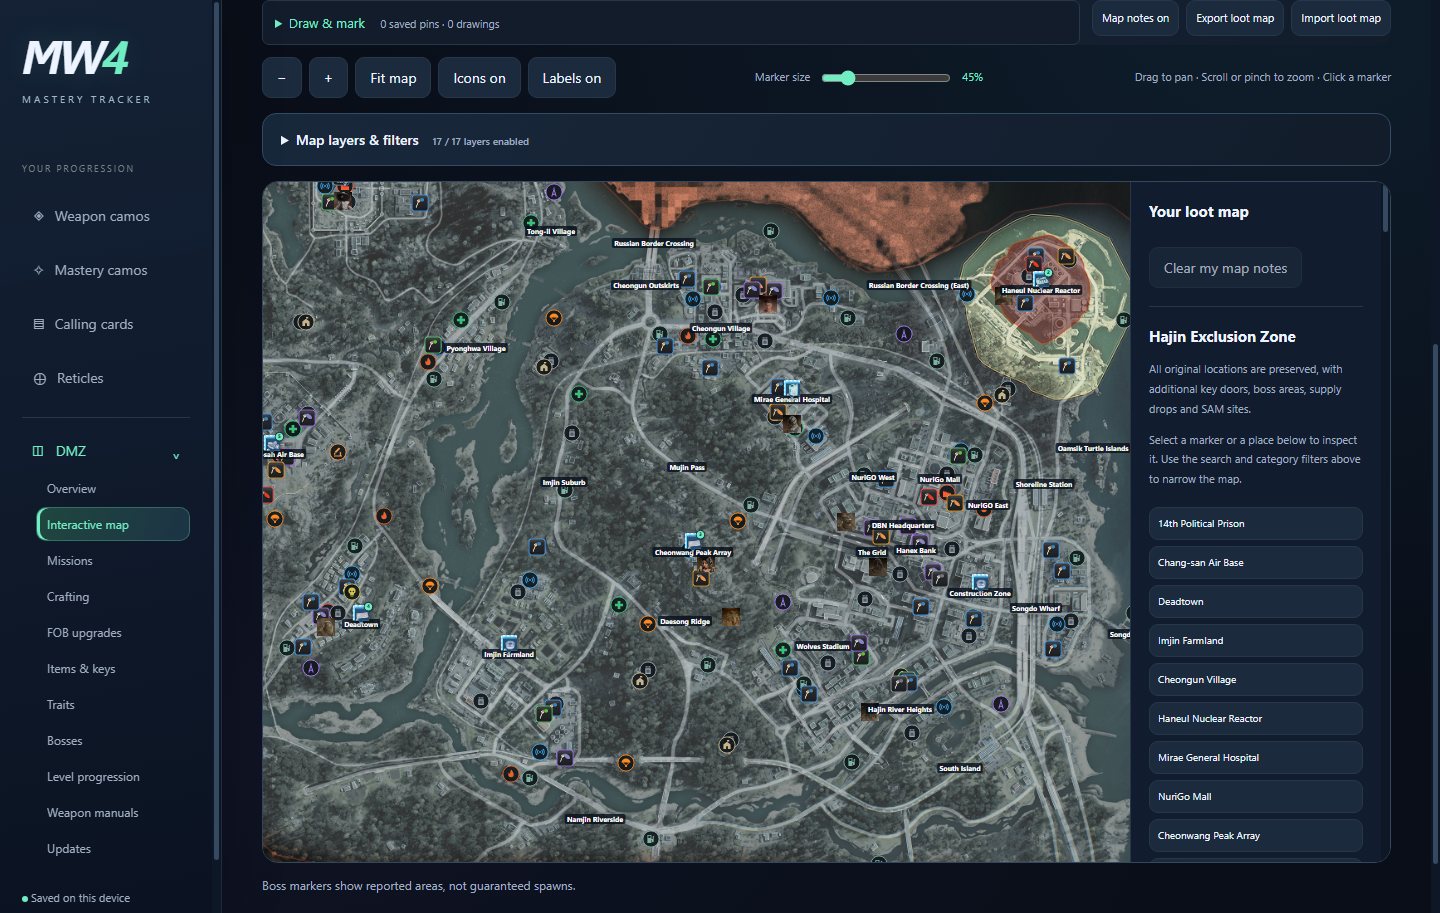
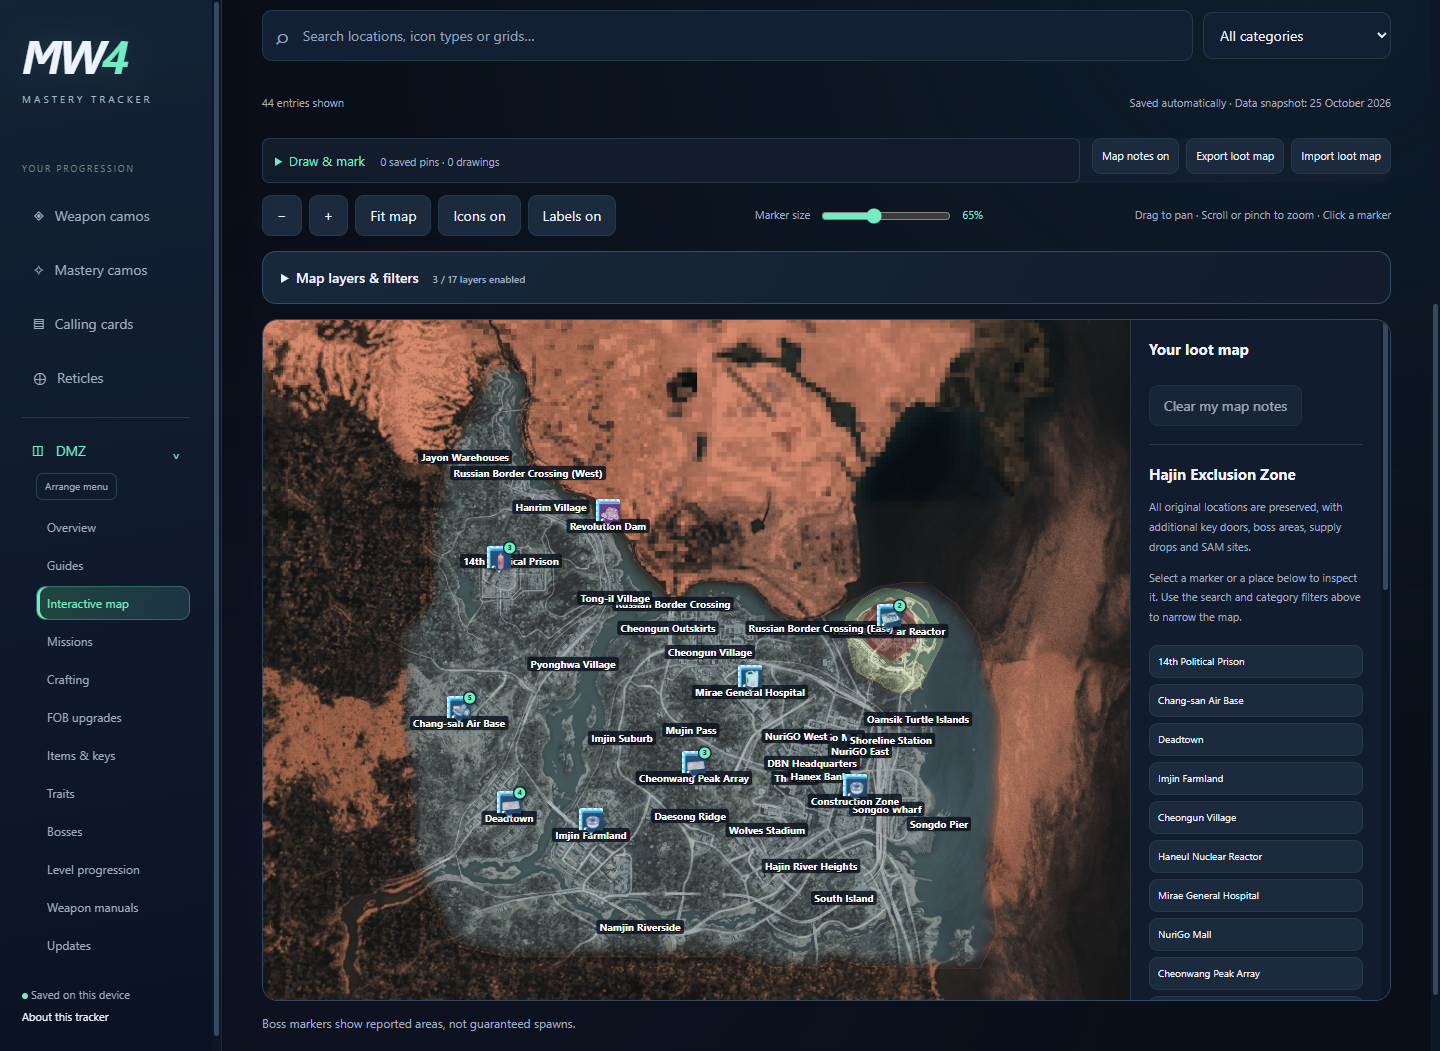
Refresh screenshot gallery and explain guides, linked entries and menu customization

diff --git a/README.md b/README.md
@@ -4,7 +4,7 @@
 
 ### Every weapon. Every camo. Your next objective.
 
-Track the grind, plan your crafts, and build your next DMZ loot route—all in one offline Windows app.
+Track the grind, plan your crafts, and find your next DMZ route—with offline visual guides, an interactive map and a menu you can make your own.
 
 [![Latest release](https://img.shields.io/github/v/release/thenotsoquietninja44-collab/mw4-mastery-tracker?style=for-the-badge&color=c7f560&label=Download)](https://github.com/thenotsoquietninja44-collab/mw4-mastery-tracker/releases/latest)
 ![Windows 10 and 11](https://img.shields.io/badge/Windows-10%20%2F%2011-0078d4?style=for-the-badge)
@@ -29,7 +29,7 @@ No account required. Your progress stays on your PC.
 - **Put a face to every unlock.** Browse a compact grid of 389 recovered calling cards; click any card for a large preview. Includes offline artwork, available animations, titles, and 379 known unlock requirements. Verified mastery sets link to their required challenges, including Prestige 1–7. Completing linked challenges updates their mastery progress. Cards with no recovered text are omitted; existing completion stays linked to its original progress keys.
 
 - **See the grind at a glance.** Each weapon sits over its highest completed camo, with completion percentages and prestige milestones beside it.
-- **Keep camo progress connected.** Completing a later camo automatically ticks its prerequisites. Multiplayer and DMZ challenge routes share the same completion. The main total counts only weapon camos. Account-wide mastery camos and War Spoils have separate counts in the Mastery camos tab. The main total counts only weapon camos. Account-wide mastery camos and War Spoils have separate counts in the Mastery camos tab.
+- **Keep camo progress connected.** Completing a later camo automatically ticks its prerequisites. Multiplayer and DMZ challenge routes share the same completion. The main total counts only weapon camos. Account-wide mastery camos and War Spoils have separate counts in the Mastery camos tab.
 - **Find your sight picture.** Track 520 reticles across 40 optics with images, named unlocks, ADS kill challenges, and automatic prerequisite completion.
 - **Track War Spoils separately.** Open Mastery camos for a dedicated 33-weapon section, its own completion count, and linked weapon-manual controls.
 - **Plan your next craft.** Check recipe unlocks, required materials, and a combined shopping list. Track weapon manuals, extracted blueprints, and FOB upgrades.
@@ -49,19 +49,40 @@ The installer is unsigned, so Windows may show an unrecognized publisher warning
 
 ## Screenshots
 
-Click any screenshot to open it at full size. These previews show example saved progress.
+Click any screenshot to open it at full size. All previews use example progress in a separate demo profile.
 
-| Weapon camos & prestige | Interactive Hajin map |
+| Offline guide library | Illustrated walkthroughs |
 | --- | --- |
-| [![Weapon list with earned camo backdrops, completion percentages and prestige milestones](screenshot-weapons.png)](screenshot-weapons.png) | [![Interactive Hajin map with location labels, icon filters and loot map sharing controls](screenshot-map.png)](screenshot-map.png) |
+| [![Searchable offline guide library for keys, missions, DMZ orders and map routes](screenshot-guides.png)](screenshot-guides.png) | [![A key guide with numbered chapters, screenshots and links back to the item and map](screenshot-guide-reader.png)](screenshot-guide-reader.png) |
+| **Your menu, your order** | **Interactive Hajin map** |
+| [![DMZ menu with drag handles and arrow controls, with Guides moved above Interactive map](screenshot-menu-order.png)](screenshot-menu-order.png) | [![Hajin map with searchable locations, layer filters and route-sharing tools](screenshot-map.png)](screenshot-map.png) |
+| **Weapon camos & prestige** | **Calling cards & linked challenges** |
+| [![Weapon list with earned camo backdrops, completion percentages and prestige milestones](screenshot-weapons.png)](screenshot-weapons.png) | [![Compact illustrated calling-card grid with titles, unlock requirements and mastery sets](screenshot-calling-cards.png)](screenshot-calling-cards.png) |
 | **Crafting & recipe unlocks** | **Items, keys & inventory** |
-| [![Crafting recipes with unlock status, rarity and required materials](screenshot-crafting.png)](screenshot-crafting.png) | [![Inventory quantities, rarity filters and material location information](screenshot-items.png)](screenshot-items.png) |
-
-### Reticle tracker
-
-[![Reticle images, named unlocks and ADS kill challenges](screenshot-reticles.png)](screenshot-reticles.png)
+| [![Crafting recipes with green unlocked and red locked states, requirements and materials](screenshot-crafting.png)](screenshot-crafting.png) | [![Item quantities, material location hints and View guide buttons](screenshot-items.png)](screenshot-items.png) |
+| **Story missions** | **Lieutenants & commanders** |
+| [![Story mission images, objective checkboxes, notes and linked guides](screenshot-missions.png)](screenshot-missions.png) | [![Illustrated boss entries with defeat tracking, map buttons and matching guides](screenshot-bosses.png)](screenshot-bosses.png) |
+| **Reticle tracker** | **War Spoils** |
+| [![Reticle images with named unlocks and ADS kill challenges](screenshot-reticles.png)](screenshot-reticles.png) | [![Separate War Spoils completion count with linked weapon-manual controls](screenshot-war-spoils.png)](screenshot-war-spoils.png) |
 
 ## Your next deployment
+
+### Find the route without leaving your tracker.
+
+Open **DMZ → Guides** to browse **62 offline visual guides**, with **748 screenshots and 62 short GIFs** covering keys, story missions, DMZ orders and map routes.
+
+- Search by title, item, location or objective, or choose a guide type.
+- Select **View guide** on a matching mission, item or key, crafting-order requirement, boss or map entry.
+- Use numbered chapters to jump through a guide. Click a screenshot to enlarge it; GIFs play only when you choose **Play GIF**.
+- Follow the guide's item, mission, boss and map buttons, or use **Return to previous entry** to go back to where you started.
+
+Guide media is included with the installer and works offline. Bottom-left player-name panels are covered in every exported screenshot and GIF frame. Guide coverage grows as more material becomes available; entries without a matching guide keep their existing information and controls.
+
+### Put your next stop first.
+
+Under the **DMZ** menu, select **Arrange menu**. Drag a section above another section, or use its **↑ ↓** buttons—for example, move **Guides** above **Interactive map**. Select **Done arranging** when finished.
+
+Your order saves automatically, survives restarts and is included in progress backups. **Reset** restores the default menu order without resetting your progression.
 
 ### Pick a weapon. See what's next.
 
